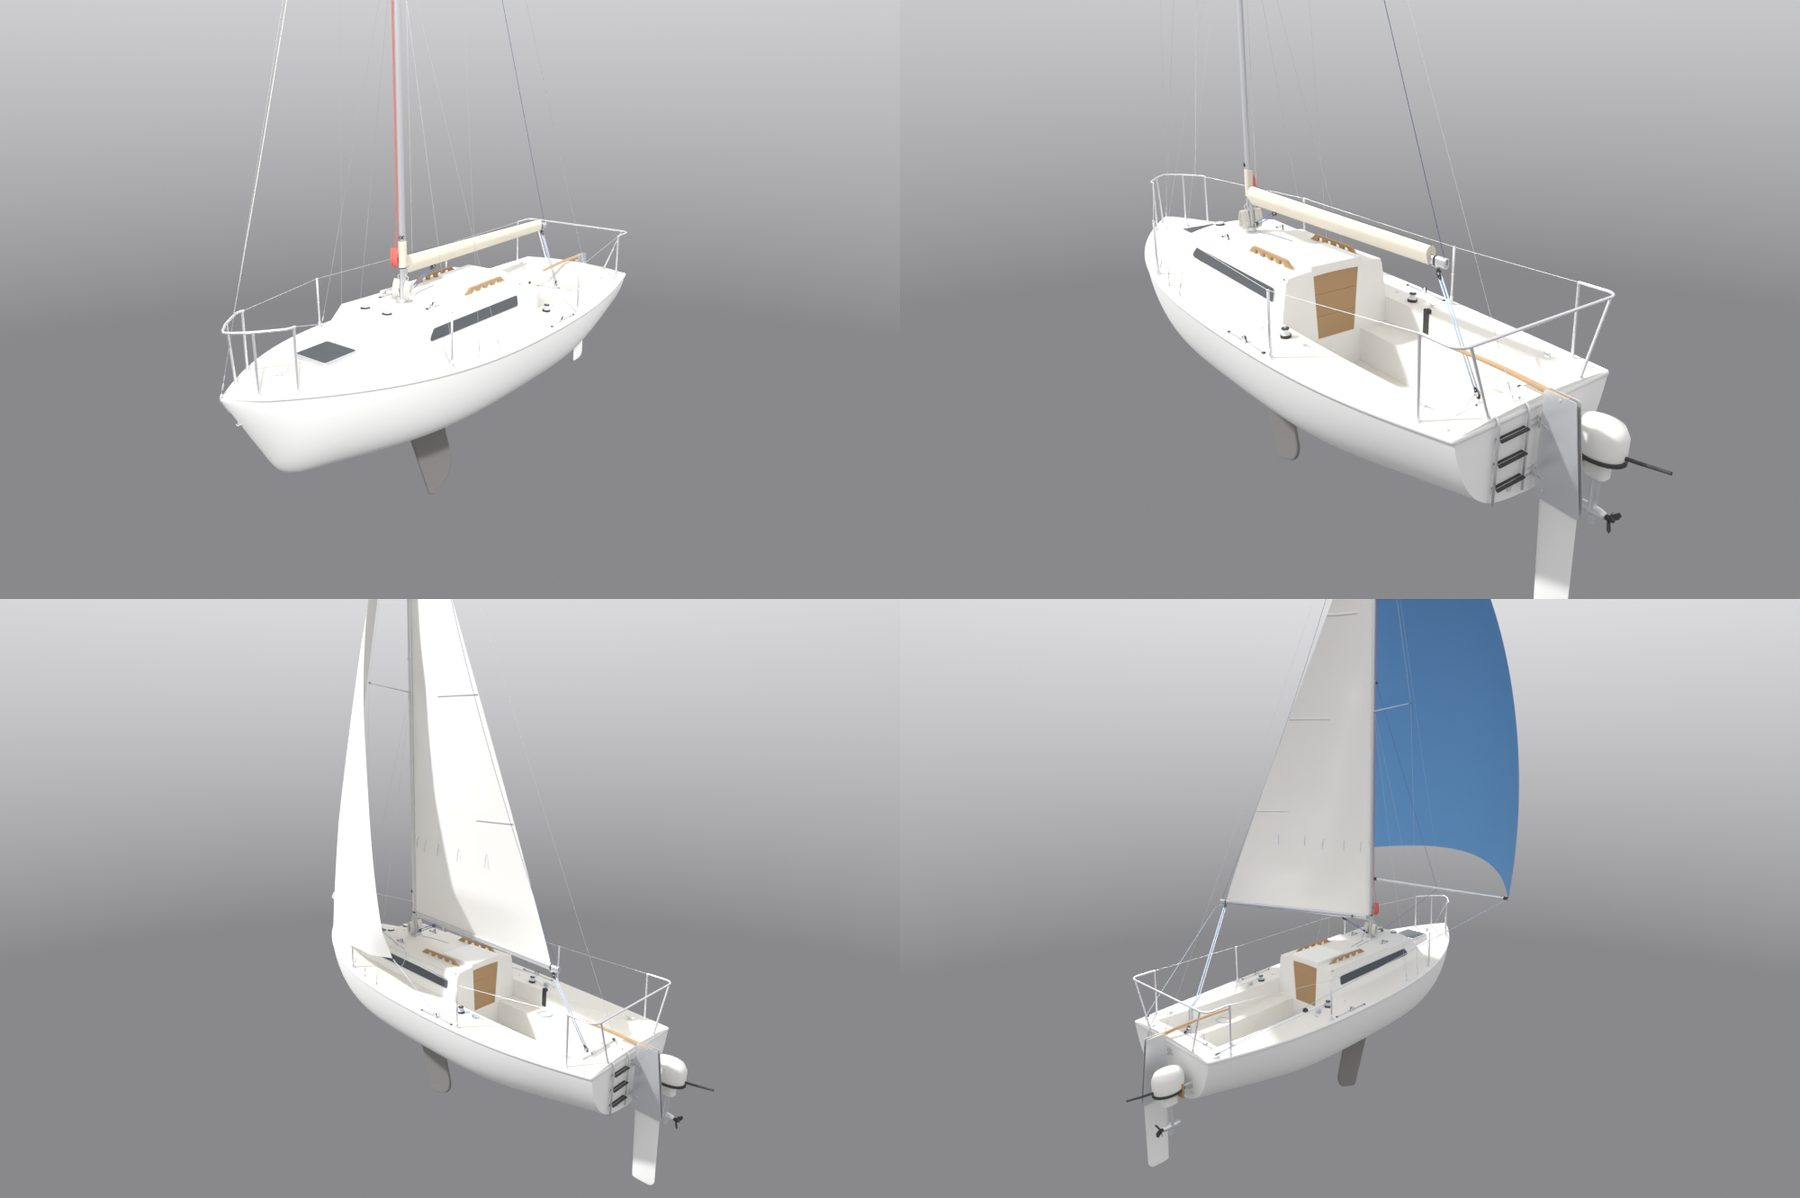
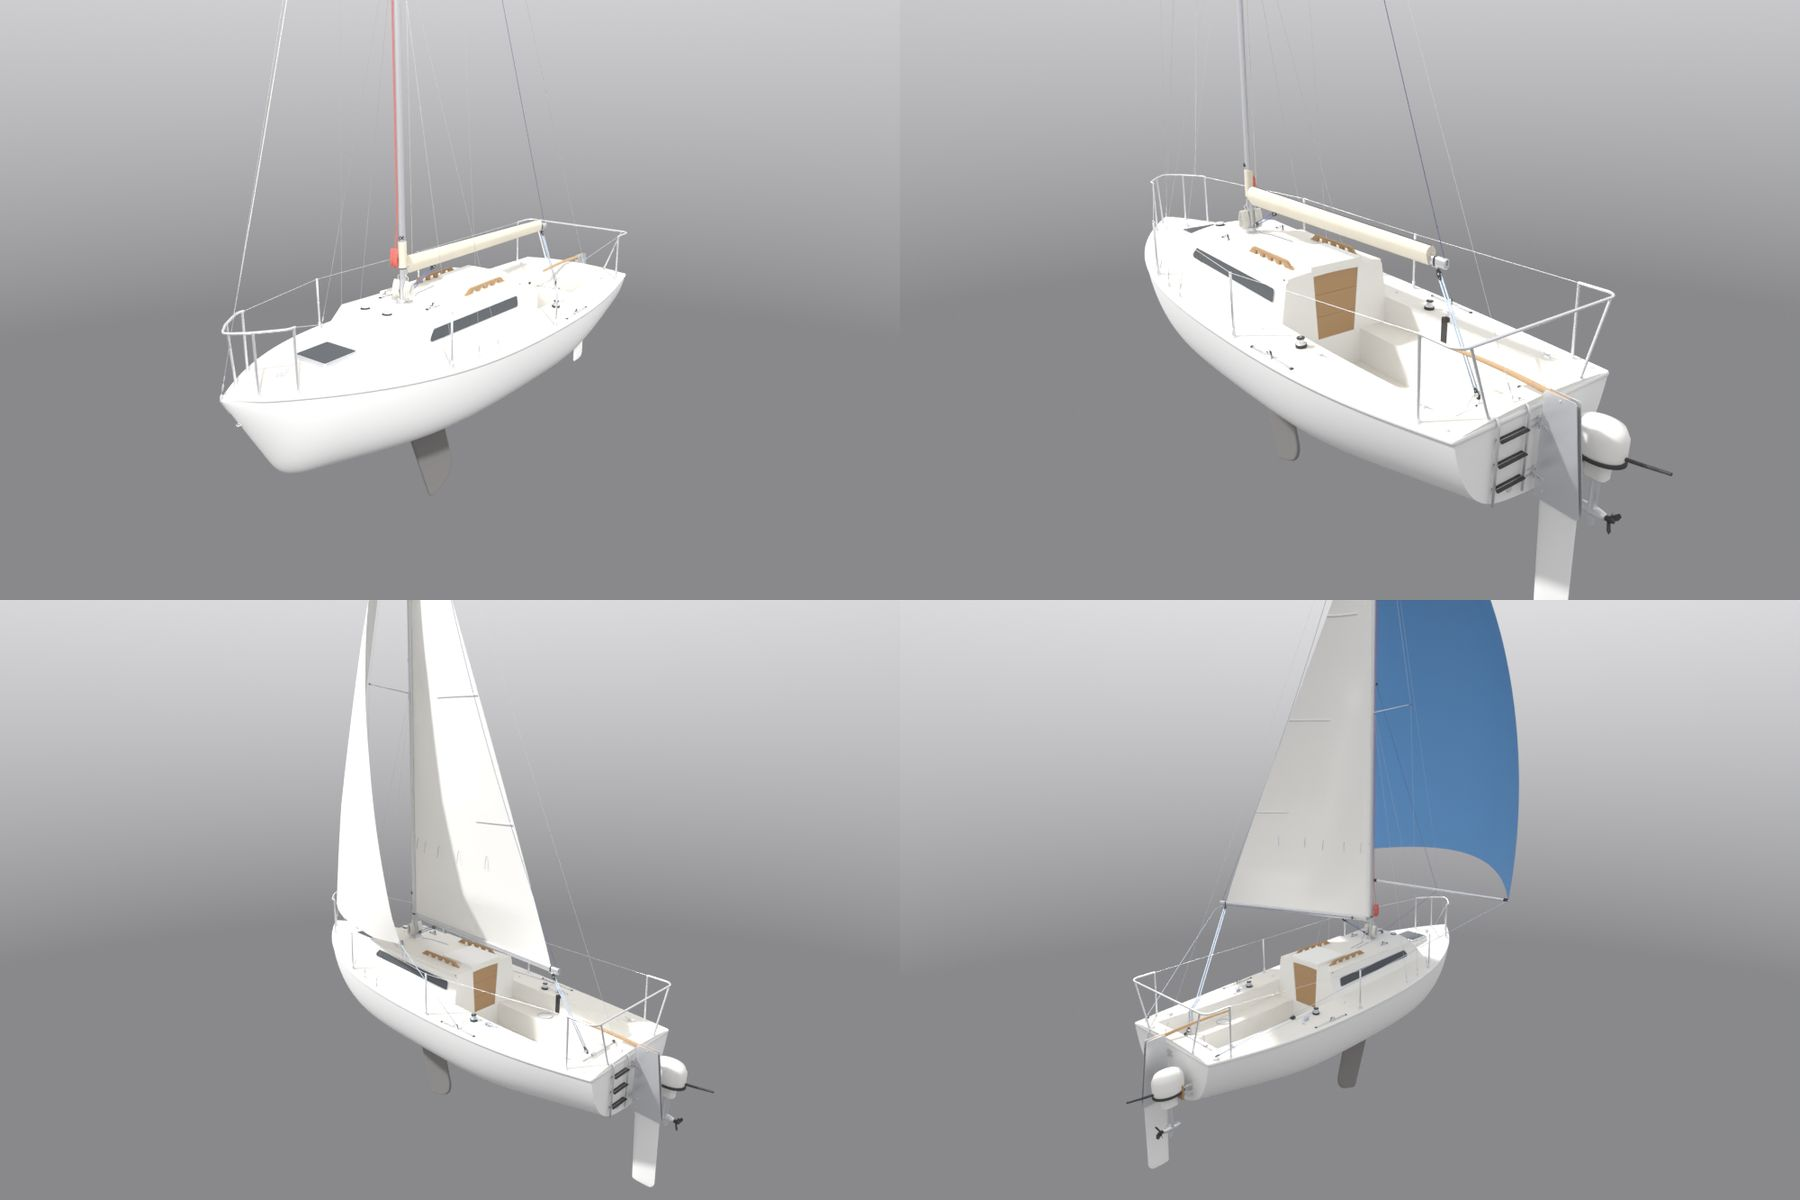
Catalina 22 slice 6: cut the genoa high so it clears the pulpit and lifeline
Bean's choice. The genoa's tack is on a 0.58 m wire pennant over the pulpit's hoop and its clew is
0.93 m above the deck, 24 cm over the lifeline; LP 1.40 J keeps the area 2.8% under the physics'.
The higher clew sheets further aft, so the genoa tracks move 40 cm aft, the winches 25 cm aft and
the aft stanchions forward to the cockpit's forward end. hardware_c22.py no longer has a known-contact
exception for the genoa: no rail, stanchion, lifeline or line passes through any sail. A genoa_tack
view and docs/c22-7/genoa_recut.jpg show it; milestone_b.jpg and sheet.jpg are re-rendered.

Claude-Session: https://claude.ai/code/session_01Aobnj9BGw9MUL7rABqXSmP

diff --git a/Tools/shipkit/catalina22/build_sails_c22.py b/Tools/shipkit/catalina22/build_sails_c22.py
@@ -411,6 +411,22 @@ def headsail_trim(m, sh, name):
         up = Vector(tuple(G[0 if p is T else -1, 2])) - p
         torus(m, tuple(p + (q - p).normalized() * 0.025 + up.normalized() * 0.02), tuple((q - p).cross(up)), 0.011,
               0.0035, "Stainless")
+    tack_pennant(m, Vector(tuple(sh.extras["T"])))
+
+
+def tack_pennant(m, T):
+    """A sail cut with its tack above the stemhead fitting (the genoa, so its foot clears the pulpit) reaches it on a
+    3/16 in wire pennant: an eye spliced round a thimble at each end, the lower shackled to the fitting."""
+    F = Vector(tuple(SC.tack_fitting()))
+    if (T - F).length < 0.05:
+        return
+    d = (T - F).normalized()
+    side = d.cross(Vector((0.0, 1.0, 0.0))).normalized()
+    a, b = F + d * 0.035, T - d * 0.03
+    tube(m, [tuple(a), tuple(b)], 0.0024, "Stainless", 8)
+    for p, s in ((a, 1), (b, -1)):
+        torus(m, tuple(p - d * (s * 0.012)), tuple(side), 0.010, 0.0025, "Stainless", 12, 5)     # the thimbled eyes
+    BR.rod(m, tuple(F - d * 0.01), tuple(F + d * 0.012), 0.004, "Stainless", 10)                # its shackle's pin
 
 
 def build_headsail_set(mats, name, sheets):
@@ -430,7 +446,8 @@ def build_headsail_lowered(mats, name, sheets):
     m = BD.Mesh("C22_Sail_%s_Lowered" % name)
     area = sheets[name + "Set"].area()
     vol = area * SC.CL["dacron_mm"] / 1000 * SC.CL["bulk"] * 1.4            # a loose heap, not flaked
-    T = SC.headsail_corners(name)[0]
+    T = SC.tack_fitting()                                                  # the heap starts at the stemhead
+    Ts = SC.headsail_corners(name)[0]                                       # the tack itself, on its pennant if cut high
     FH = BD.DK.D["fore_hatch"]
     L = T[0] - 0.06 - (FH["x"] + FH["size"][0] / 2 + 0.05)                # ends 5 cm forward of the fore hatch
     n = 30
@@ -448,12 +465,14 @@ def build_headsail_lowered(mats, name, sheets):
     # the hanks bunched at the stay's foot, the luff tape running up into them
     foot, u, Ls = SC.stay()
     k_n = hank_count(sheets[name + "Set"])                                  # as many as the set luff carries
+    s0 = max(0.06, float(np.dot(Ts - foot, u)) + 0.03)                      # stacked, touching, above the tack
     for k in range(k_n):
-        s = 0.06 + 0.009 * k                                                # stacked, touching, above the tack
+        s = s0 + 0.009 * k
         c = Vector(tuple(foot)) + Vector(tuple(u)) * s
         torus(m, tuple(c + Vector((-0.006, 0, 0))), tuple(u), 0.015, 0.0022, "Stainless", 12, 5)   # clear of the stay
-    tube(m, [tuple(Vector(tuple(foot)) + Vector(tuple(u)) * (0.09 + 0.009 * k_n) + Vector((-0.02, 0, 0))),
+    tube(m, [tuple(Vector(tuple(foot)) + Vector(tuple(u)) * (s0 + 0.03 + 0.009 * k_n) + Vector((-0.02, 0, 0))),
           tuple(Vector(tuple(T)) + Vector((-0.06, 0, 0.03)))], 0.0045, "SailHeap", 8)
+    tack_pennant(m, Vector(tuple(Ts)))
     return m.finish(mats)
 
 

diff --git a/Tools/shipkit/catalina22/render_hardware_c22.py b/Tools/shipkit/catalina22/render_hardware_c22.py
@@ -7,8 +7,9 @@ Views (each names the state it shows):
   rest_34, rest_top, rest_quarter   at the mooring: the whole boat from the port bow, from above, from the port quarter
   cockpit, traveller, ladder        the cockpit from aft and up, the mainsheet's tackle, the stern ladder and rail (rest)
   mast_foot, bow                    the halyards' cleats, coils and the vang; the pulpit, bow cleat, vents and hatch
-  up_34, genoa_lead, winch, outhaul close-hauled under main and genoa: the boat, the genoa's car, sheet and winch,
-                                    the port winch's turns and cleat hitch, the outhaul at the boom's end
+  up_34, genoa_lead, genoa_tack,    close-hauled under main and genoa: the boat, the genoa's car, sheet and winch over
+  winch, outhaul                    the lifeline, its tack pennant over the pulpit, the port winch's turns and cleat
+                                    hitch, the outhaul at the boom's end
   jib_34, jib_lead                  under main and working jib: the boat, the jib's car, fairlead, turning block and winch
   reef_pennant                      reefed: the reef's clew pennant on the boom
   run_34, run_aft                   on a run under main and spinnaker: the guy, sheet, pole lift and foreguy
@@ -145,8 +146,9 @@ shot("mast_foot", (MX - 1.0, 1.25, 2.1), (MX, 0.0, 1.55), lens=30)
 shot("bow", (4.3, 1.6, 2.0), (2.55, 0.0, 0.95), lens=30)
 show("Up")
 shot("up_34", (-6.5, 6.0, 4.5), (0.0, 0.0, 2.0), lens=24)
-shot("genoa_lead", (-0.4, 2.3, 1.9), (-0.6, 1.05, 0.9), lens=26)
-shot("winch", (-1.25, 1.45, 1.25), (-1.08, 0.78, 0.74), lens=40)
+shot("genoa_lead", (-0.2, 3.0, 2.2), (-0.6, 1.0, 1.15), lens=22)
+shot("genoa_tack", (3.95, 1.25, 1.95), (3.1, 0.0, 1.25), lens=35)
+shot("winch", (-1.47, 1.45, 1.25), (-1.30, 0.78, 0.74), lens=40)
 shot("outhaul", (-1.5, -1.1, 2.1), (-2.0, 0.15, 1.55), lens=30)
 show("Jib")
 shot("jib_34", (-6.5, 6.0, 4.5), (0.0, 0.0, 2.0), lens=24)

diff --git a/Tools/shipkit/catalina22/sails_c22.py b/Tools/shipkit/catalina22/sails_c22.py
@@ -17,7 +17,7 @@ Sails and states (build_sails_c22.py builds one object per sail and state):
            tied), Covered (flaked under its cover)
   Jib      the working jib (90%: sails_c22.json says why): Set, Lowered (in a heap on the foredeck, still hanked on),
            Bagged
-  Genoa    the 135% genoa: Set, Lowered, Bagged
+  Genoa    the high-cut genoa (140% LP, tack pennant): Set, Lowered, Bagged
   Spinnaker  Set (on a run, with its pole), Bagged
 """
 import json
@@ -416,13 +416,22 @@ def stay():
     return foot, unit(top - foot), float(np.linalg.norm(top - foot))
 
 
+def tack_fitting():
+    """Where a headsail's tack shackles to the stemhead fitting (game frame): the headsails' own 'tack_over_deck' above the
+    deck, down the stay's line. A sail cut with its own higher tack (the genoa) reaches it on a wire pennant."""
+    foot, u, Ls = stay()
+    aft = unit(np.array([-1.0, 0.0, 0.0]) - u * (u @ np.array([-1.0, 0.0, 0.0])))
+    s = (floor_z(foot[0], 0.0) + HS["tack_over_deck"] - foot[2]) / u[2]
+    return foot + u * s + aft * HS["luff_aft_of_stay"]
+
+
 def headsail_corners(name):
     """Tack, head and clew of a headsail (game frame), its luff's plane basis and LP."""
     sp = HS[name]
     foot, u, Ls = stay()
     aft = unit(np.array([-1.0, 0.0, 0.0]) - u * (u @ np.array([-1.0, 0.0, 0.0])))
     o = HS["luff_aft_of_stay"]
-    s_tack = (floor_z(foot[0], 0.0) + HS["tack_over_deck"] - foot[2]) / u[2]  # down the stay's line to the stemhead
+    s_tack = (floor_z(foot[0], 0.0) + sp.get("tack_over_deck", HS["tack_over_deck"]) - foot[2]) / u[2]  # down the stay's line to the stemhead
     T = foot + u * s_tack + aft * o
     Hd = foot + u * (Ls - HS["head_below_hounds"]) + aft * o
     lp = sp["lp"] * J_M

diff --git a/Tools/shipkit/catalina22/hardware_c22.py b/Tools/shipkit/catalina22/hardware_c22.py
@@ -13,7 +13,7 @@ to a state of the boat:
 
   rest    at her mooring: the main flaked under its cover on a centred boom, the headsails bagged, the halyards made
           fast and coiled, the jib halyard clipped to the pulpit and the main's to the headboard at the gooseneck
-  up      close-hauled on starboard tack under main and the 135% genoa (slice 5's MainSet and GenoaSet)
+  up      close-hauled on starboard tack under main and the high-cut 140% genoa (slice 5's MainSet and GenoaSet)
   jib     the same under main and the 90% working jib (MainSet and JibSet)
   reef    reefed main and the working jib (MainReefed and JibSet)
   run     on a run under main and spinnaker (MainRun and SpinnakerSet), the pole squared to starboard
@@ -990,11 +990,9 @@ def check_surfaces(L, state, F, fails, report):
 
 STATE_SAILS = {"up": ("MainSet", "GenoaSet"), "jib": ("MainSet", "JibSet"), "reef": ("MainReefed", "JibSet"),
                "run": ("MainRun", "SpinnakerSet")}
-# The 135% genoa as slice 5 cut it, a deck-sweeper sheeted to the rail, its clew outside the lifeline: with the pulpit
-# round its luff and a lifeline at its clew, its cloth can't miss them (a real one lies on them). Reported, not failed,
-# until Bean decides (no lifelines, a higher-cut clew, or the cloth pressed onto them): docs/c22-7.
-KNOWN_SAIL_CONTACTS = {"GenoaSet": ("Lifeline_P", "PulpitRail", "PulpitLeg1", "PulpitLeg3", "Stanchion0_P",
-                                    "Stanchion1_P")}
+# Sail-on-rail contacts reported but not failed: none since the genoa was cut high (Bean, Nov 17: its tack on a pennant
+# over the pulpit, its clew above the lifeline; docs/c22-7).
+KNOWN_SAIL_CONTACTS = {}
 _SETS = {}
 
 

diff --git a/docs/c22-7/README.md b/docs/c22-7/README.md
@@ -40,15 +40,15 @@ for Bean.
 `hardware_c22.py` places the fittings, lays every line and checks them (plain Python, no Blender). `build_hardware_c22.py`
 meshes them from the shared boat kit (`Tools/boatkit`), and `render_hardware_c22.py` draws the views here.
 
-- **Fittings.** Two size 8 plain-top winches beside the cockpit's forward end, each with a 6 in horn cleat aft of it. A
-  600 mm genoa track a side just inside the rubrail. A 250 mm jib track a side on the fixed cabin top forward of the
+- **Fittings.** Two size 8 plain-top winches beside the cockpit, half a metre aft of its forward end, each with a 6 in
+  horn cleat aft of it. A 600 mm genoa track a side just inside the rubrail, alongside the cockpit. A 250 mm jib track a side on the fixed cabin top forward of the
   lid, a fairlead at the trunk's aft corner and a turning block on the side deck. The traveller on a moulded bridge
   across the cockpit's aft end (end-boom sheeting, as on the original boat). An 8 in bow cleat, a 6 in stern cleat a
   side, teak handrails on the pop-top's lid, two mushroom vents, the fore hatch on slice 2's curb, a bow eye for the
   trailer, two scuppers, a winch handle pocket and a folding stern ladder on the transom's port side.
 - **Rails.** A bow pulpit drawn to her bow: it narrows with the deck, its nose rounds the forestay and the headsails'
-  luffs, and the stay leaves the stemhead under it. A stern rail round the transom's corners, two stanchions a side and a
-  single lifeline a side. All the feet stand on the deck, 7 cm inside its edge.
+  luffs, and the stay leaves the stemhead under it. A stern rail round the transom's corners, two stanchions a side (the aft
+  one at the cockpit's forward end) and a single lifeline a side. All the feet stand on the deck, 7 cm inside its edge.
 - **On the mast.** The main and jib halyards run inside the mast and leave through slots just under the gooseneck,
   to horn cleats low on its sides. The spinnaker halyard runs outside, down the front's starboard quarter to its own
   cleat. Each is made fast with a cleat hitch, and its tail is coiled and hung over the cleat's upper horn. The pole lift
@@ -69,7 +69,7 @@ meshes them from the shared boat kit (`Tools/boatkit`), and `render_hardware_c22
 - **Sizes of line:** 3/8 in sheets, 5/16 in halyards and spinnaker lines, 1/4 in control lines, and a 3/16 in lifeline
   (owners' lists and Catalina Direct's running rigging kit).
 
-![Details: the cockpit, winch, traveller, ladder, mast foot, bow, the genoa's and jib's leads, the outhaul and the reef](sheet.jpg)
+![Details: the cockpit, winch, traveller, ladder, mast foot, bow, the genoa's lead and tack, the jib's lead, the outhaul, the reef and the run from aft](sheet.jpg)
 
 ## Checks
 
@@ -77,7 +77,7 @@ meshes them from the shared boat kit (`Tools/boatkit`), and `render_hardware_c22
 - **The hardware** (`hardware_c22.py`, which fails if any of these does):
   - **Fittings sit on their surfaces.** Every deck fitting's base is within 6 mm of the surface under it. No two deck
     fittings' footprints overlap. The pulpit's and stern rail's feet are on the deck, at least 3 cm inside its edge.
-  - **Leads.** Each headsail's lead halves its clew's angle, seen square to the sail: the genoa 0.1° off, the jib 8.1°.
+  - **Leads.** Each headsail's lead halves its clew's angle, seen square to the sail: the genoa 5.4° off, the jib 8.1°.
     Every sheet meets its winch's drum between 80° and 95° to its axis (86° to 93°).
   - **Lines clear of the rig.** Every line and coil is at least 1 cm clear of the wires, mast, lifelines, stanchions,
     the pulpit's and stern rail's tubes and legs, and the boom. A line may touch only what it is led through.
@@ -85,7 +85,7 @@ meshes them from the shared boat kit (`Tools/boatkit`), and `render_hardware_c22
     3 mm. None goes into a fitting it isn't led through or made fast on. Lines lie over the coaming's and trunk's edges.
   - **No line passes through another or through a sail,** in any state.
   - **The boom is the sails' boom:** its end is within 20 cm of the mainsail's clew in each state.
-- **Triangles:** 213,850 for the hardware and lines, against the slice's budget of 250,000:
+- **Triangles:** 213,834 for the hardware and lines, against the slice's budget of 250,000:
 
   | Part | Triangles |
   |---|---|
@@ -94,13 +94,13 @@ meshes them from the shared boat kit (`Tools/boatkit`), and `render_hardware_c22
   | Mast hardware | 15,740 |
   | Halyards | 10,592 |
   | Lines at rest | 11,244 |
-  | Lines up | 18,017 |
+  | Lines up | 18,001 |
   | Lines jib | 19,129 |
   | Lines reef | 19,129 |
   | Lines run | 22,605 |
 
   Padeyes and blocks use a tenth of the kit's triangles (the full ones are 6,700 to 29,000 each). Cleats, tracks and
-  small parts use a quarter, as the kit's own light copies do. The boat is 460,814 in all, with every state's lines
+  small parts use a quarter, as the kit's own light copies do. The boat is 461,166 in all, with every state's lines
   counted.
 - **Joins** (`seams.py`): all closed, as in slice 5.
 
@@ -140,21 +140,31 @@ picks. A critique round on the colour views asked for:
 
 These fixes weren't shown to another blind round.
 
-## For Bean: the genoa against the pulpit and lifeline
+## The genoa, cut high (Bean's choice)
 
 Slice 5 cut the 135% genoa as a deck-sweeper sheeted to the rail, with its clew outside the lifeline. With the pulpit
-round its luff and a lifeline at its clew, the cloth can't miss them: on a real boat it lies on them.
+round its luff and the lifeline at its clew, the cloth couldn't miss them: it passed through the port lifeline and the
+pulpit's port legs. Bean chose to cut it higher (Nov 17), and it now clears them:
 
-- The model's genoa passes through the port lifeline and the pulpit's two port legs where they meet it.
-- `hardware_c22.py` reports this as a known contact rather than failing it.
-- Three ways on, in the pull request:
-  - drop the lifelines and stanchions (many original boats had only the pulpits);
-  - press the genoa onto them so it lies on them, with a crease;
-  - or cut the genoa with a higher clew on a short tack pennant, so it clears them.
+- **The tack** is on a 0.58 m (23 in) wire pennant from the stemhead fitting, so the foot starts just above the pulpit's
+  hoop. The pennant has a thimbled eye at each end and is shackled to the stemhead fitting. Lowered, the hanks stack
+  above the tack on the pennant.
+- **The clew** is 0.93 m above the deck, 24 cm over the lifeline where the foot crosses it.
+- **The size.** The luff is 0.58 m shorter, so the LP is 1.40 J (it was 1.35) to keep the area: 12.54 m², 2.8% under
+  the physics' 12.9 m². The game's genoa is unchanged.
+- **The lead.** A higher clew sheets further aft, so the genoa tracks moved 40 cm aft, to beside the cockpit (x −1.6 to
+  −1.0 m). The winches moved 25 cm aft with them (x −1.30 m), and the aft stanchions moved forward to the cockpit's forward end
+  (−0.70 m) to keep clear of the tracks. The lead is 5.4° off the clew's bisector.
+- **Checks.** No rail, stanchion, lifeline or line passes through any sail in any state. `hardware_c22.py` no longer
+  has an exception for the genoa. The cloth comes no nearer the rails than about 4 cm.
+
+![The genoa before (slice 5's deck-sweeper, left) and cut high (right): close-hauled, its lead, and its tack over the pulpit](genoa_recut.jpg)
 
 ## For slice 9 (light copy and sockets)
 
 - The winches' drums are 6 cm over their bases. The game's `JibWinchDrumCm` assumes 8.
+- `JibWinch_*` moved 25 cm aft with the winches (to x −127 and −133 cm), and `JibLead_*` 40 cm aft with the genoa's
+  cars (x −129 cm).
 - The new sockets are in `c22_sockets.json` under `hardware_note`: `MainsheetBlock` and `MainsheetCam`, the cars, the
   fairleads, the lifelines' ends, the cleats and the halyard cleats on the mast. They are where the game's live ropes
   should end.
@@ -183,9 +193,10 @@ blender -b -P Tools/shapeloop/seams.py -- <work>/s6/c22.blend Tools/shapeloop/se
 python3 -I Tools/shipkit/catalina22/c22_check.py <work>/s6/m/stats.json <work>/s6/c22_sockets.json --slice 6
 blender -b -P Tools/shipkit/catalina22/render_hardware_c22.py -- <work>/s6/c22.blend <work>/s6/hw --res 1000
 python3 Tools/shapeloop/make_sheet.py <work>/s6/hw_old <work>/s6/hw docs/c22-7/before_after.jpg rest_34 rest_quarter cockpit traveller --title "Catalina 22 hardware: today's (left), new (right)"
+python3 Tools/shapeloop/make_sheet.py <work>/s6_deck_sweeper/hw <work>/s6/hw docs/c22-7/genoa_recut.jpg up_34 genoa_lead genoa_tack --title "Catalina 22 genoa: deck-sweeper (left), cut high (right)"
 ```
 
-`<work>/s6/hw_old` is today's model with its live ropes drawn as straight lines from its sockets. `milestone_b.jpg` is four
+`<work>/s6_deck_sweeper` is this slice built before the genoa was recut (commit 7f086b4a). `<work>/s6/hw_old` is today's model with its live ropes drawn as straight lines from its sockets. `milestone_b.jpg` is four
 views and `sheet.jpg` the detail views, both saved smaller as JPEGs. `--clay` renders everything in one clay, as the blind
 rounds saw it. In the cloud, `blender -b -P <script> --` was a Python 3.13 venv with `pip install bpy`, as in slice 1.
 
